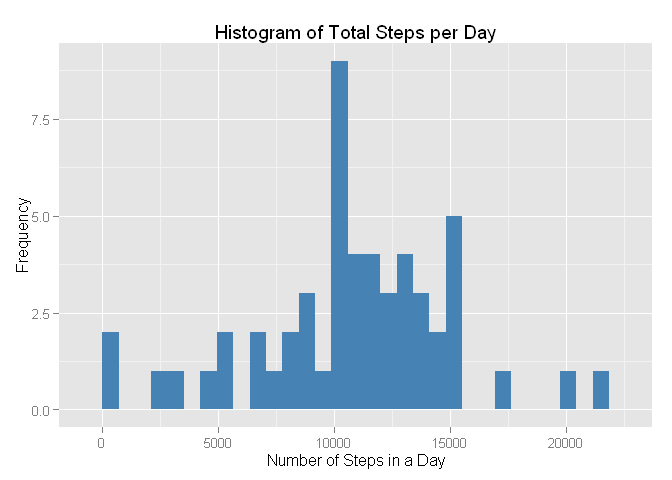
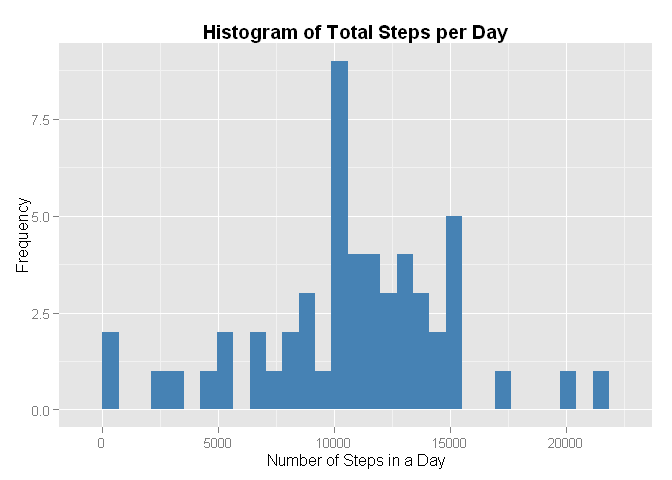
Q2 complete
Continued progress through assignment.
Question 2 about daily trends completed with a line plot of average
steps per interval across all days in the sample.
Dplyr is definitely feeling much more intuitive towards data
manipulation for plotting.

Changed region(s): [[0.2812, 0.0312, 0.75, 0.0938]]

diff --git a/PA1_template.html b/PA1_template.html
@@ -8,6 +8,7 @@
 <meta http-equiv="Content-Type" content="text/html; charset=utf-8" />
 <meta name="generator" content="pandoc" />
 
+<meta name="author" content="Rich Robinson" />
 
 
 <title>Reproducible Research: Peer Assessment 1</title>
@@ -61,6 +62,7 @@ img {
 
 <div id="header">
 <h1 class="title">Reproducible Research: Peer Assessment 1</h1>
+<h4 class="author"><em>Rich Robinson</em></h4>
 </div>
 
 
@@ -83,23 +85,39 @@ act_data &lt;- read.csv(data_file, header = TRUE, stringsAsFactors = FALSE)</cod
 </div>
 <div id="what-is-mean-total-number-of-steps-taken-per-day" class="section level2">
 <h2>What is mean total number of steps taken per day?</h2>
-<pre class="r"><code>library(dplyr)</code></pre>
-<pre><code>## Warning: package 'dplyr' was built under R version 3.1.3</code></pre>
-<pre class="r"><code>res &lt;- act_data %&gt;% group_by(date) %&gt;% summarise(total.steps=sum(steps))
+<pre class="r"><code>library(dplyr)
+
+res &lt;- act_data %&gt;% group_by(date) %&gt;% summarise(total.steps=sum(steps))
 
 avgs &lt;- res %&gt;% summarise(mean.steps=mean(total.steps, na.rm=TRUE), median.steps=median(total.steps, na.rm=TRUE))</code></pre>
 <pre class="r"><code>library(ggplot2)
 
 base &lt;- ggplot(res, aes(total.steps)) + geom_bar(fill=&quot;steelblue&quot;)
 g &lt;- base + labs(title = &quot;Histogram of Total Steps per Day&quot;) + xlab(&quot;Number of Steps in a Day&quot;) + ylab(&quot;Frequency&quot;)
+g &lt;- g + theme(plot.title = element_text(face=&quot;bold&quot;))
 
 print(g)</code></pre>
[2 lines of base64/hex data omitted]
 <p>The histogram above shows that the most common number of steps taken in an individual day is just above 10000.</p>
 <p>The mean number of steps per day is 1.076618910^{4}, and the median number of steps per day is 10765.</p>
 </div>
 <div id="what-is-the-average-daily-activity-pattern" class="section level2">
 <h2>What is the average daily activity pattern?</h2>
+<pre class="r"><code>## Calculating the mean steps per intrval
+ints &lt;- act_data %&gt;% group_by(interval) %&gt;% summarise(mean.steps=mean(steps, na.rm=TRUE))
+
+## Plotting
+g2 &lt;- ggplot(ints, aes(interval, mean.steps)) + geom_line(color=&quot;steelblue&quot;, size=1)
+g2 &lt;- g2 + labs(title=&quot;Average Number of Steps Across all Days per 5sec Interval&quot;) + theme(plot.title = element_text(face=&quot;bold&quot;))
+g2 &lt;- g2 + xlab(&quot;Time in seconds&quot;) + ylab(&quot;Mean number of steps&quot;)
+
+## Sorting the data in descending order by steps
+ints2 &lt;- ints %&gt;% arrange(desc(mean.steps))
+
+print(g2)</code></pre>
[1 lines of base64/hex data omitted]
+<p>The grpah above shows how the average number of steps in a 5 second interval varies across a day. The values in each intervale were averaged across all days in the sample.</p>
+<p>The interval with the highest average number of steps is intervale number 167, which is at 835 seconds. The mean number of steps measured in this interval is 206.1698113.</p>
 </div>
 <div id="imputing-missing-values" class="section level2">
 <h2>Imputing missing values</h2>

diff --git a/PA1_template.md b/PA1_template.md
@@ -1,4 +1,5 @@
 # Reproducible Research: Peer Assessment 1
+Rich Robinson  
 
 
 ## Loading and preprocessing the data
@@ -25,13 +26,7 @@ act_data <- read.csv(data_file, header = TRUE, stringsAsFactors = FALSE)
 
 ```r
 library(dplyr)
-```
 
-```
-## Warning: package 'dplyr' was built under R version 3.1.3
-```
-
-```r
 res <- act_data %>% group_by(date) %>% summarise(total.steps=sum(steps))
 
 avgs <- res %>% summarise(mean.steps=mean(total.steps, na.rm=TRUE), median.steps=median(total.steps, na.rm=TRUE))
@@ -42,6 +37,7 @@ library(ggplot2)
 
 base <- ggplot(res, aes(total.steps)) + geom_bar(fill="steelblue")
 g <- base + labs(title = "Histogram of Total Steps per Day") + xlab("Number of Steps in a Day") + ylab("Frequency")
+g <- g + theme(plot.title = element_text(face="bold"))
 
 print(g)
 ```
@@ -55,7 +51,26 @@ The mean number of steps per day is 1.0766189\times 10^{4}, and the median numbe
 
 ## What is the average daily activity pattern?
 
+```r
+## Calculating the mean steps per intrval
+ints <- act_data %>% group_by(interval) %>% summarise(mean.steps=mean(steps, na.rm=TRUE))
 
+## Plotting
+g2 <- ggplot(ints, aes(interval, mean.steps)) + geom_line(color="steelblue", size=1)
+g2 <- g2 + labs(title="Average Number of Steps Across all Days per 5sec Interval") + theme(plot.title = element_text(face="bold"))
+g2 <- g2 + xlab("Time in seconds") + ylab("Mean number of steps")
+
+## Sorting the data in descending order by steps
+ints2 <- ints %>% arrange(desc(mean.steps))
+
+print(g2)
+```
+
+![](PA1_template_files/figure-html/daily-1.png) 
+
+The grpah above shows how the average number of steps in a 5 second interval varies across a day. The values in each intervale were averaged across all days in the sample.
+
+The interval with the highest average number of steps is intervale number 167, which is at 835 seconds. The mean number of steps measured in this interval is 206.1698113.
 
 ## Imputing missing values
 
